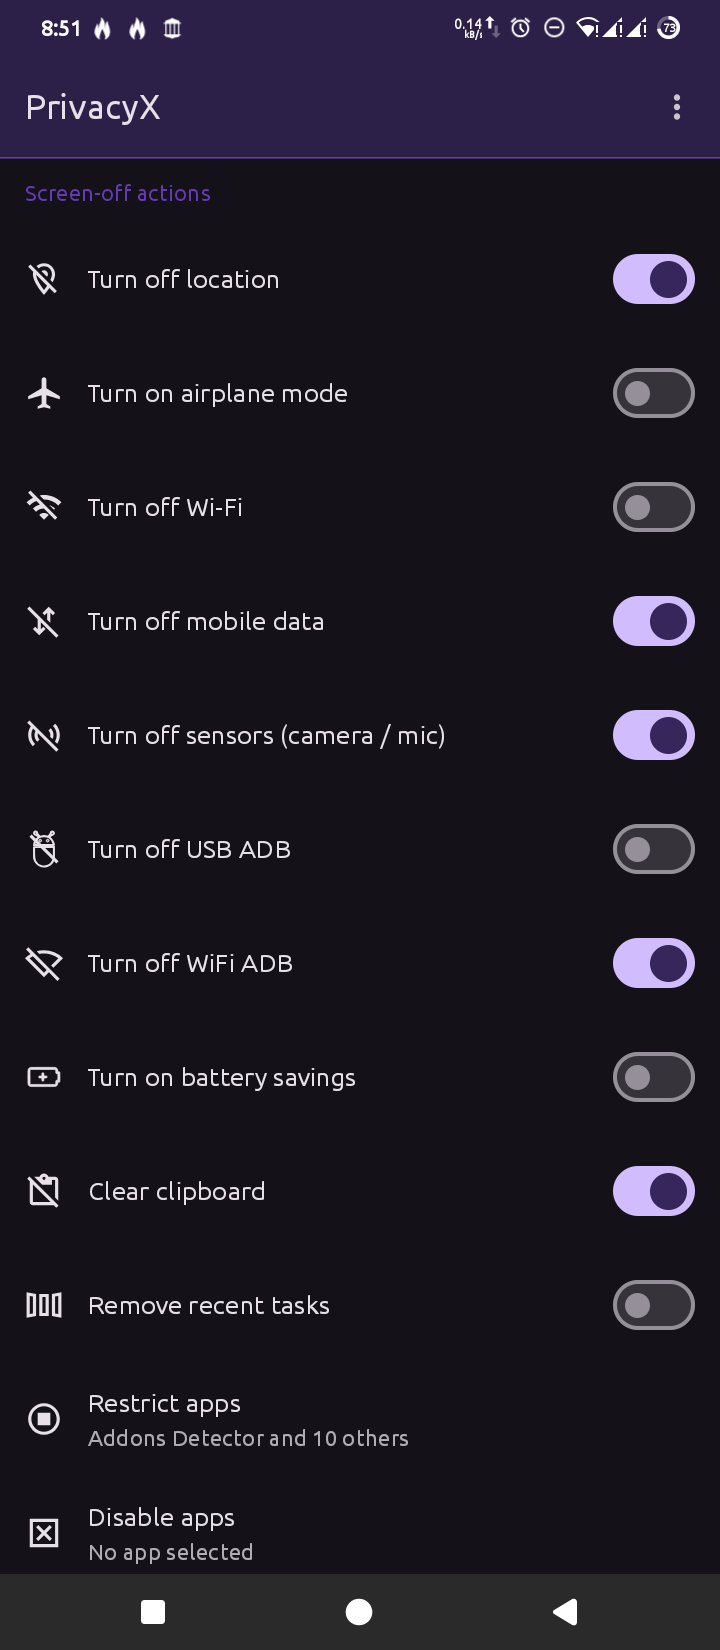
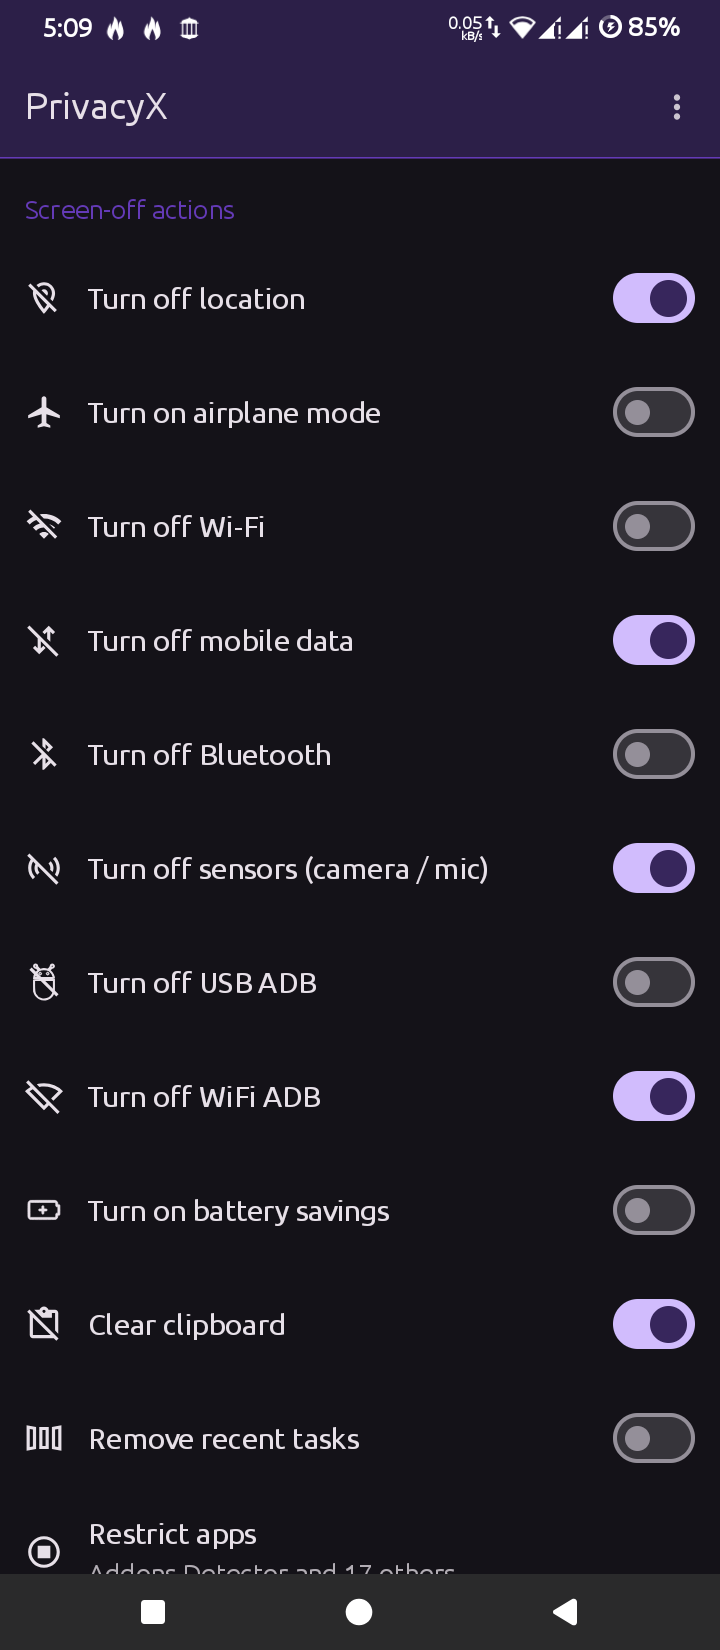
Update description and screenshots

diff --git a/README.md b/README.md
@@ -10,7 +10,7 @@ PrivacyX complements our other privacy-focused apps:
 
 [![Github](https://img.shields.io/github/v/release/mirfatif/PrivacyX?label="Github")](https://github.com/mirfatif/PrivacyX/releases/latest) [![Telegram](https://img.shields.io/badge/Telegram-latest-blue)](https://t.me/mirfatifApps)
 
-👉 **Attention:** PrivacyX works only with $${\color{red}\textbf{ROOT}}$$.
+👉 **Attention:** PrivacyX works only with ROOT or ADB. ADB provides limited and sometimes broken functionality.
 
 **What you can automate with PrivacyX:**
 
@@ -18,6 +18,7 @@ PrivacyX complements our other privacy-focused apps:
 - Turn on/off airplane mode
 - Turn off/on Wi-Fi
 - Turn off/on mobile data
+- Turn off/on Bluetooth
 - Turn off/on sensors (camera / mic)
 - Turn off/on USB ADB
 - Turn off/on Wi-Fi ADB
@@ -32,13 +33,12 @@ PrivacyX complements our other privacy-focused apps:
 
 ## Screenshots
 
-<img src="screenshots/ss1.png" width="250"> <img src="screenshots/ss2.png" width="250"> <img src="screenshots/ss3.png" width="250">
+<img src="screenshots/ss1.png" width="250"> <img src="screenshots/ss2.png" width="250"> <img src="screenshots/ss3.png" width="250"> <img src="screenshots/ss4.png" width="250">
 
 ## Limitations of PrivacyX
-- Requires root.
+- Requires root or ADB.
 - Runs only in the primary user account / owner profile.
-- Works on Android 10-16 only (will try to keep it working on new Android releases).
-- No localization, so far (but planned).
+- Works on Android 10-17 only (will try to keep it working on new Android releases).
 - More?
 
 ## More
@@ -61,7 +61,7 @@ No. Ad bombardment exploits psychological and emotional vulnerabilities of human
 
 **Can PrivacyX harm my device?**
 
-Despite having root privileges, PrivacyX does not make any persistent changes to your device. No files are created outside the app directories, except the IFW file (if "Aggressive app restriction" is enabled). No system components are touched in an irreversible manner. Ungrant root access, and uninstall the app. Even if something goes unexpected, do a device reboot. And all is clean.
+Despite having root privileges, PrivacyX does not make any persistent changes to your device. No files are created outside the app directories, except the IFW file (if "Aggressive app restriction" is enabled). No system components are touched in an irreversible manner. Ungrant root/ADB access, and uninstall the app. Even if something goes unexpected, do a device reboot. And all is clean.
 
 **Why PrivacyX connects to ...?**
 
@@ -74,11 +74,11 @@ You can use [Fyrypt](https://github.com/mirfatif/Fyrypt) to monitor when and whe
 
 Negligible. Only the root helper runs in the background. You can use [WhatsRunning](https://github.com/mirfatif/WhatsRunning) to monitor apps' **CPU / RAM usage**:
 
-<img src="screenshots/ss4.png" width="250">
+<img src="screenshots/ss5.png" width="250">
 
 ## Permissions
 - QUERY_ALL_PACKAGES: To show apps list.
-- INTERNET: For license checks.
+- INTERNET: For license and update checks.
 - RECEIVE_BOOT_COMPLETED: To start monitoring after reboot.
 
 You can use [PMX](https://github.com/mirfatif/PermissionManagerX) to see all requested and granted permissions.
@@ -93,6 +93,8 @@ You can use [PMX](https://github.com/mirfatif/PermissionManagerX) to see all req
 - [Moshi](https://github.com/square/moshi)
 - [LeakCanary](https://github.com/square/leakcanary)
 - [HiddenApiBypass](https://github.com/LSPosed/AndroidHiddenApiBypass)
+- [HiddenApiRefinePlugin](https://github.com/RikkaApps/HiddenApiRefinePlugin)
+- [LibADB Android](https://github.com/MuntashirAkon/libadb-android)
 - [clikt](https://github.com/ajalt/clikt)
 
 ## Contact us
